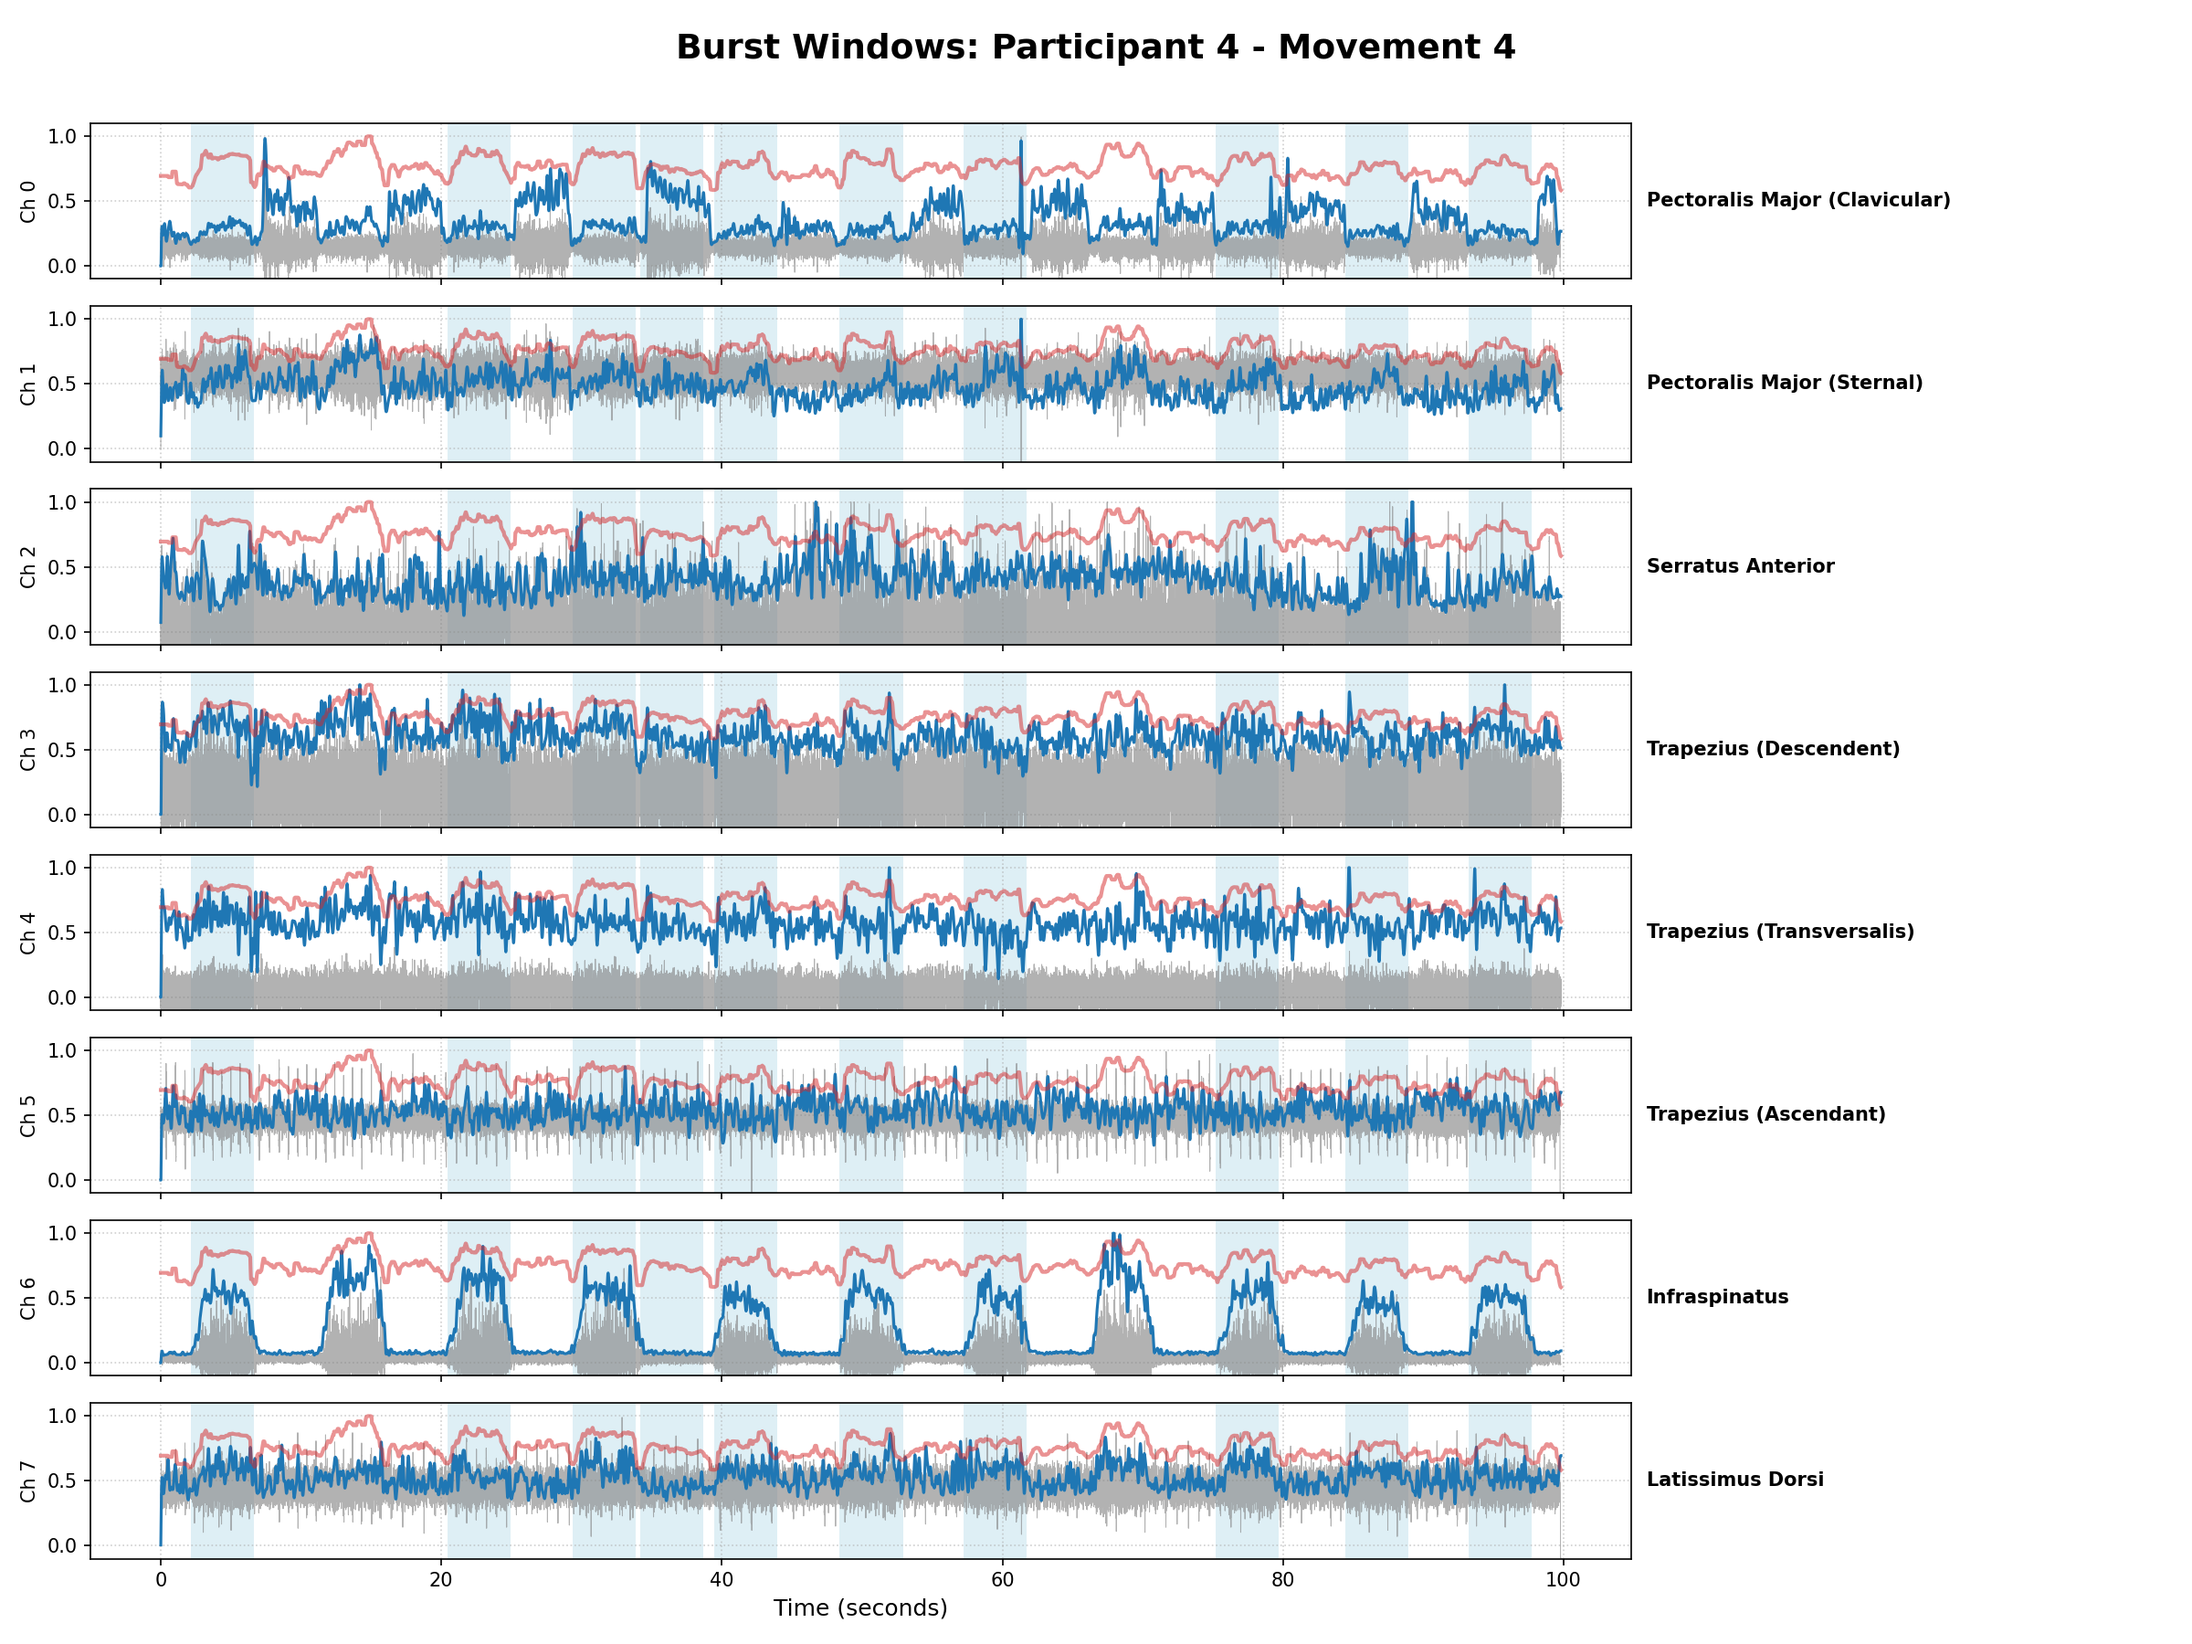
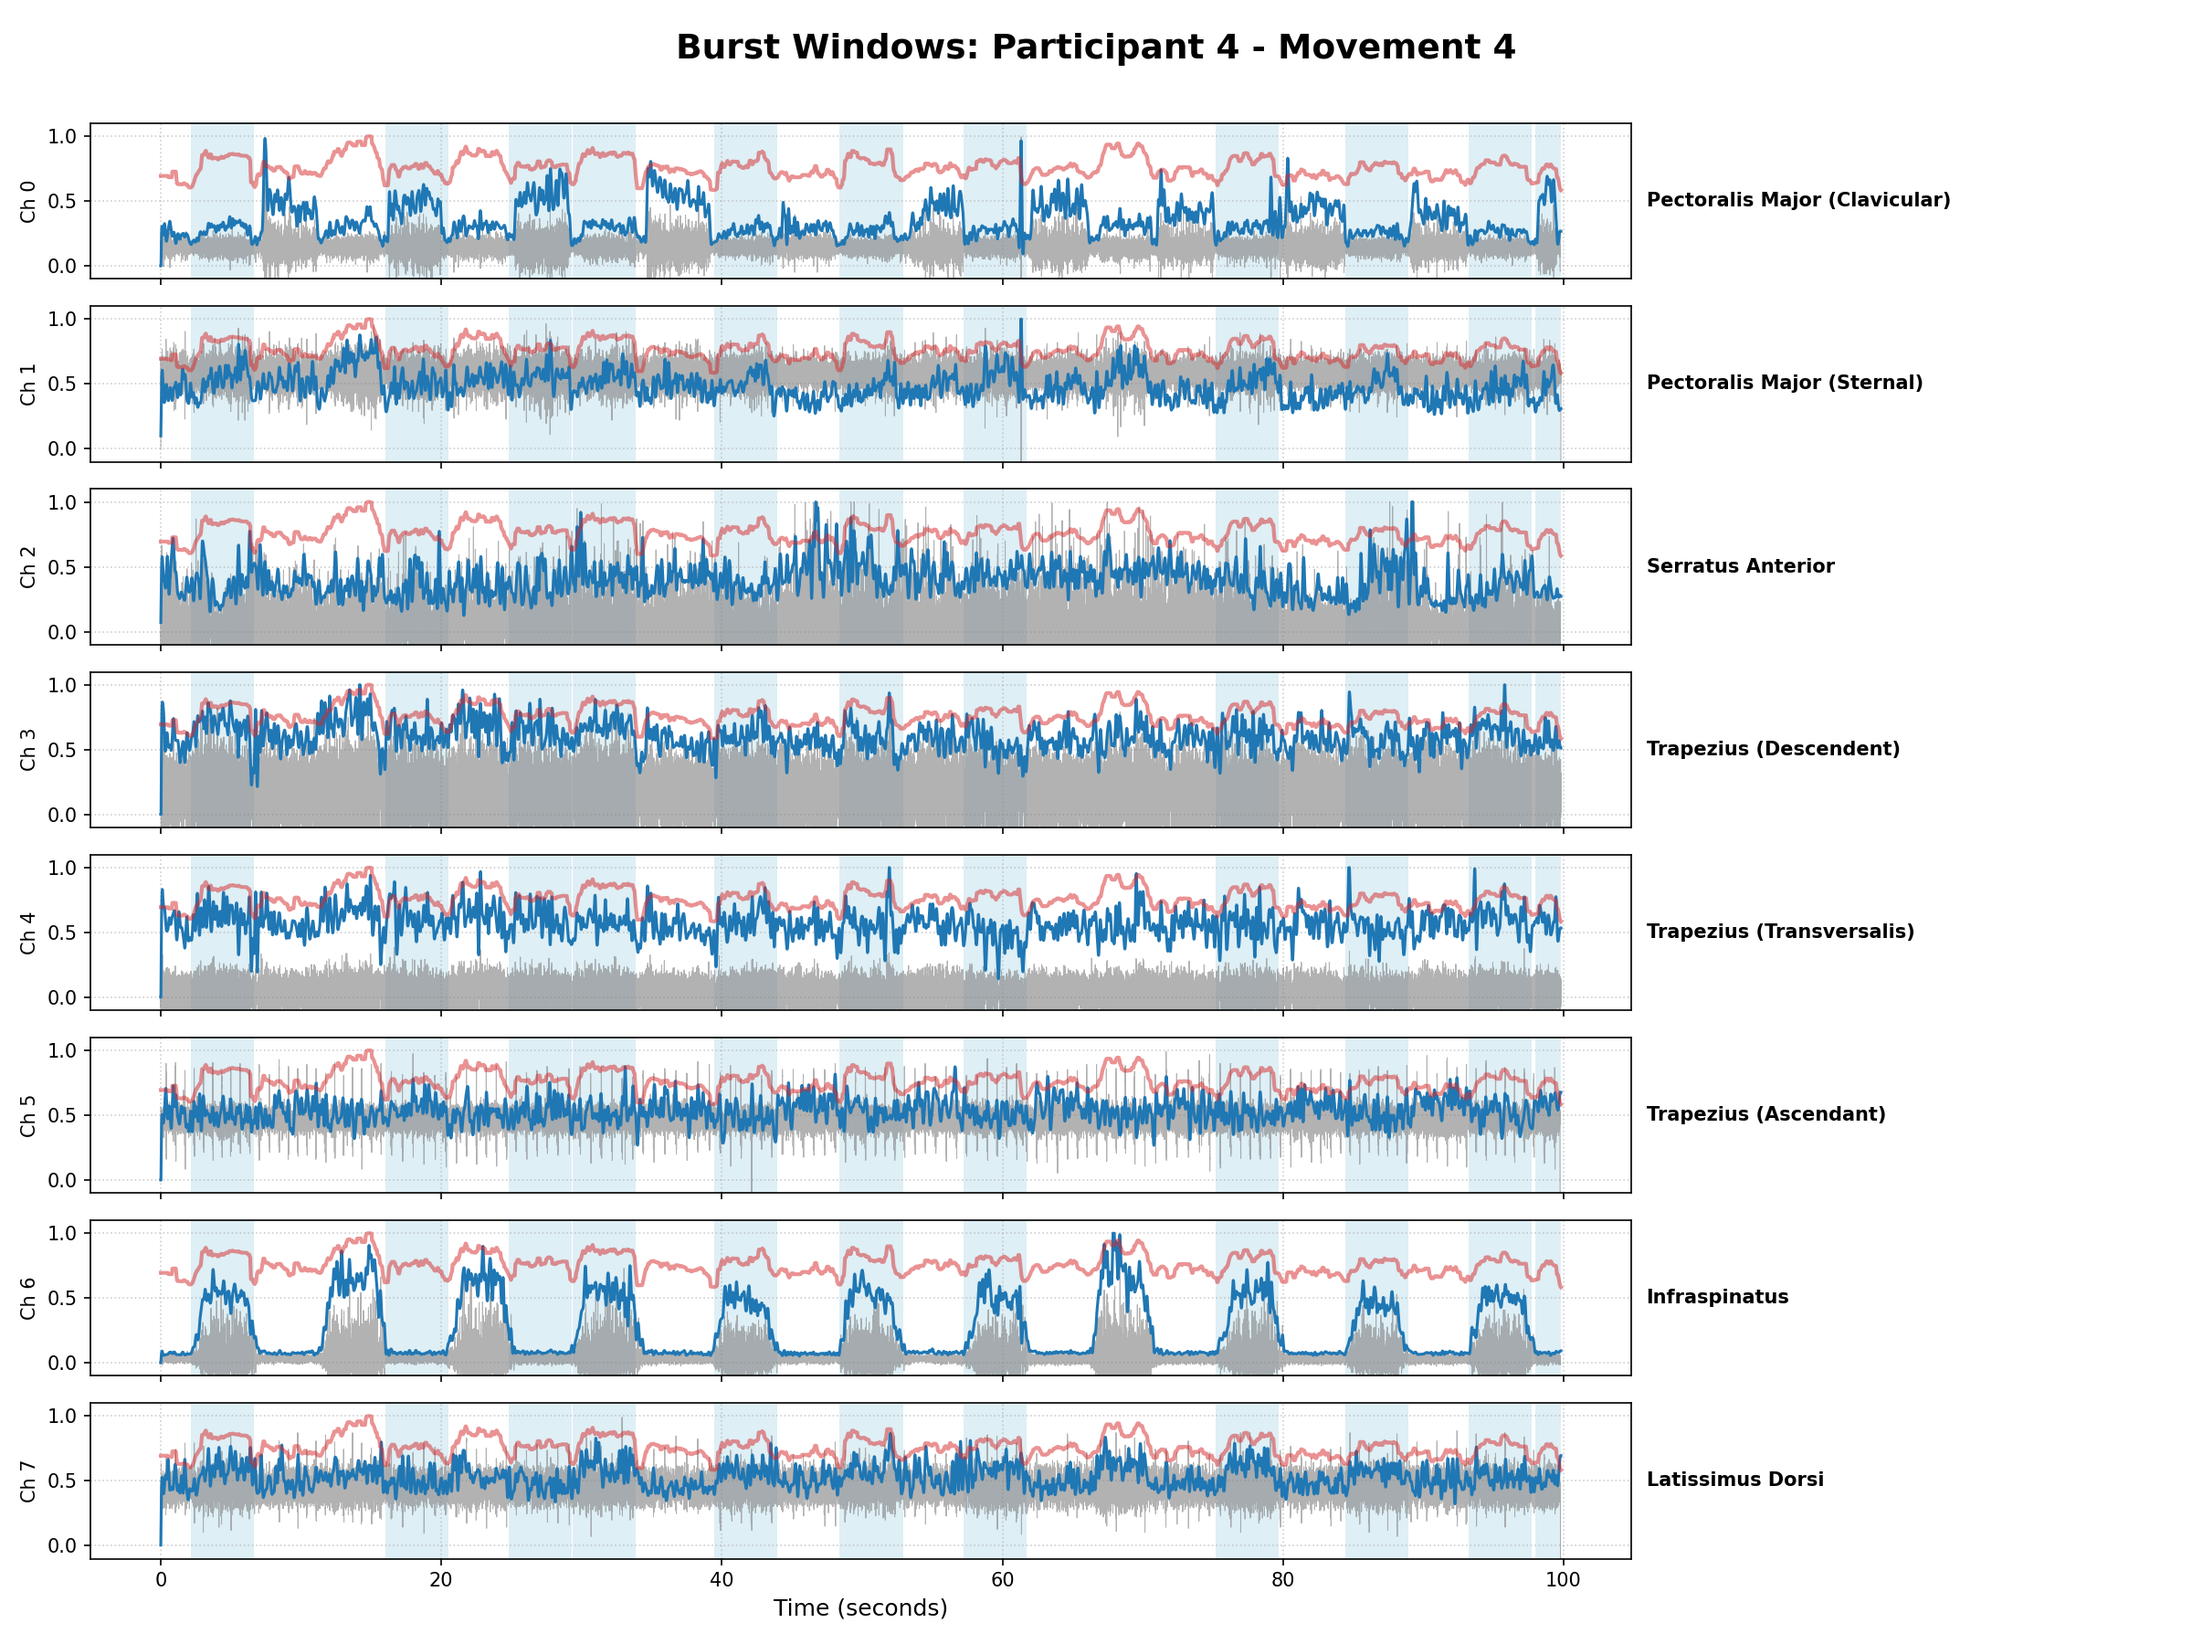
Adding height changes to burst detector

diff --git a/matFileReader.py b/matFileReader.py
@@ -42,13 +42,14 @@ def get_burst_time_windows(signal_data, fs=1000.0, window_length_sec=4.5):
     
     modified_smoothed_energy = np.copy(smoothed_energy)
     modified_smoothed_energy[:cutoff_samples] = steady_state_value
-    # --------------------------------------------------
+    robust_max = np.percentile(modified_smoothed_energy, 95)
     
     # 3. Find Peaks (using the clamped signal)
     peaks, _ = scipy.signal.find_peaks(
         modified_smoothed_energy, 
-        distance=4000,
-        prominence=np.max(modified_smoothed_energy) * 0.15
+        distance=2000,
+        prominence=robust_max*0.05,
+        height=robust_max * 0.60
     )
     
     # Ignore startup hardware spikes
@@ -303,13 +304,13 @@ def get_mat_headers(file_path):
         return None, None
 
 if __name__ == "__main__":
-    RUN_BATCH_GENERATION = True
+    RUN_BATCH_GENERATION = False
 
     if RUN_BATCH_GENERATION:
         batch_generate_all_plots()
     else:
-        file_location = './secondary_data/Soggetto1/'
-        file_name = file_location + 'Movimento6.mat' 
+        file_location = './secondary_data/Soggetto5/'
+        file_name = file_location + 'Movimento5.mat' 
         contents, keys = get_mat_headers(file_name)
 
         if contents and 'EMGDATA' in contents:
